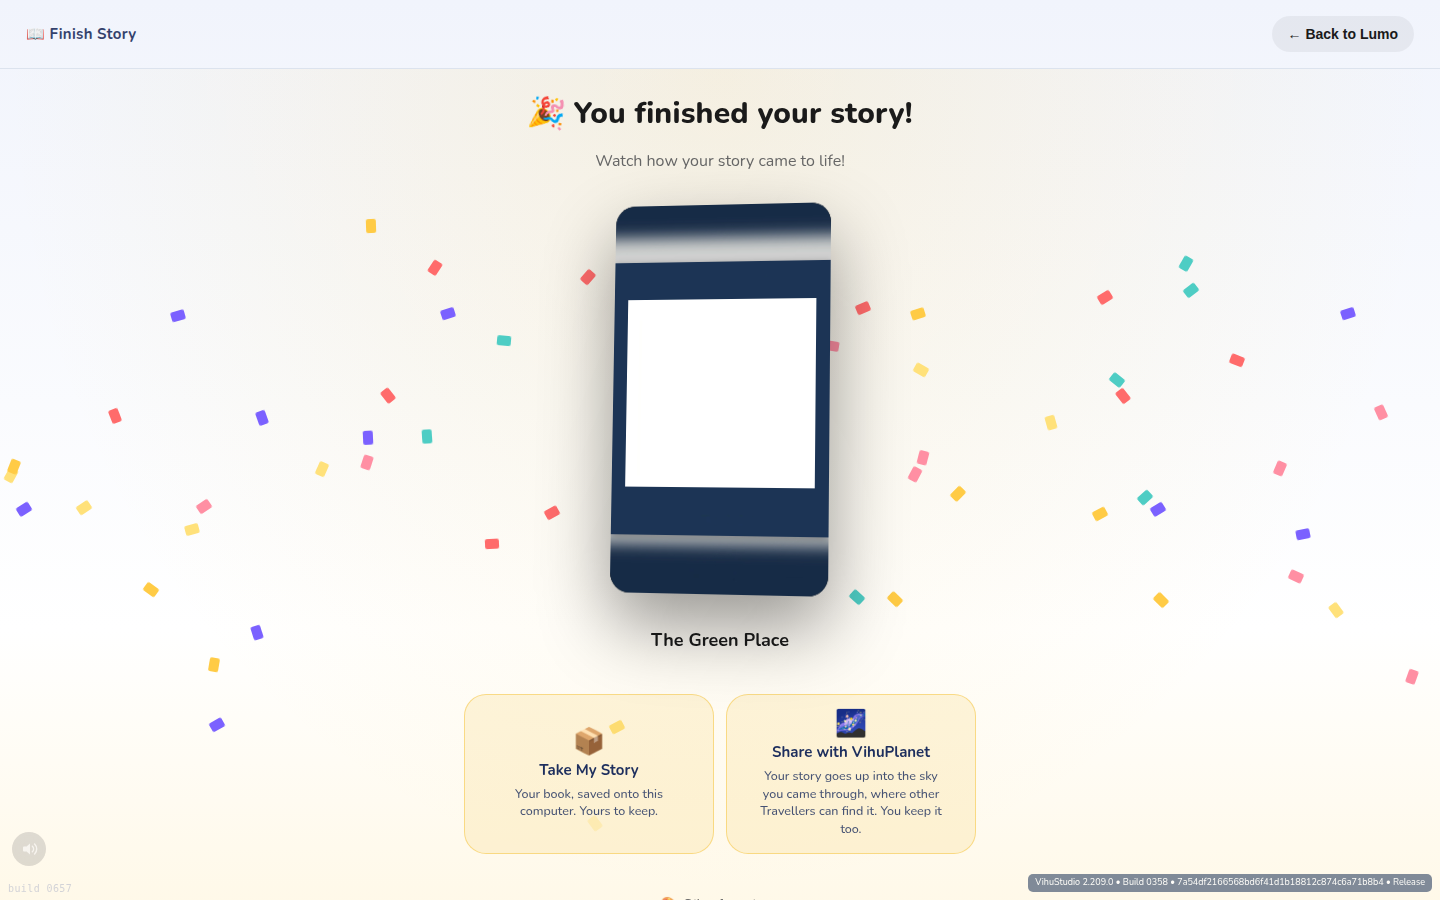
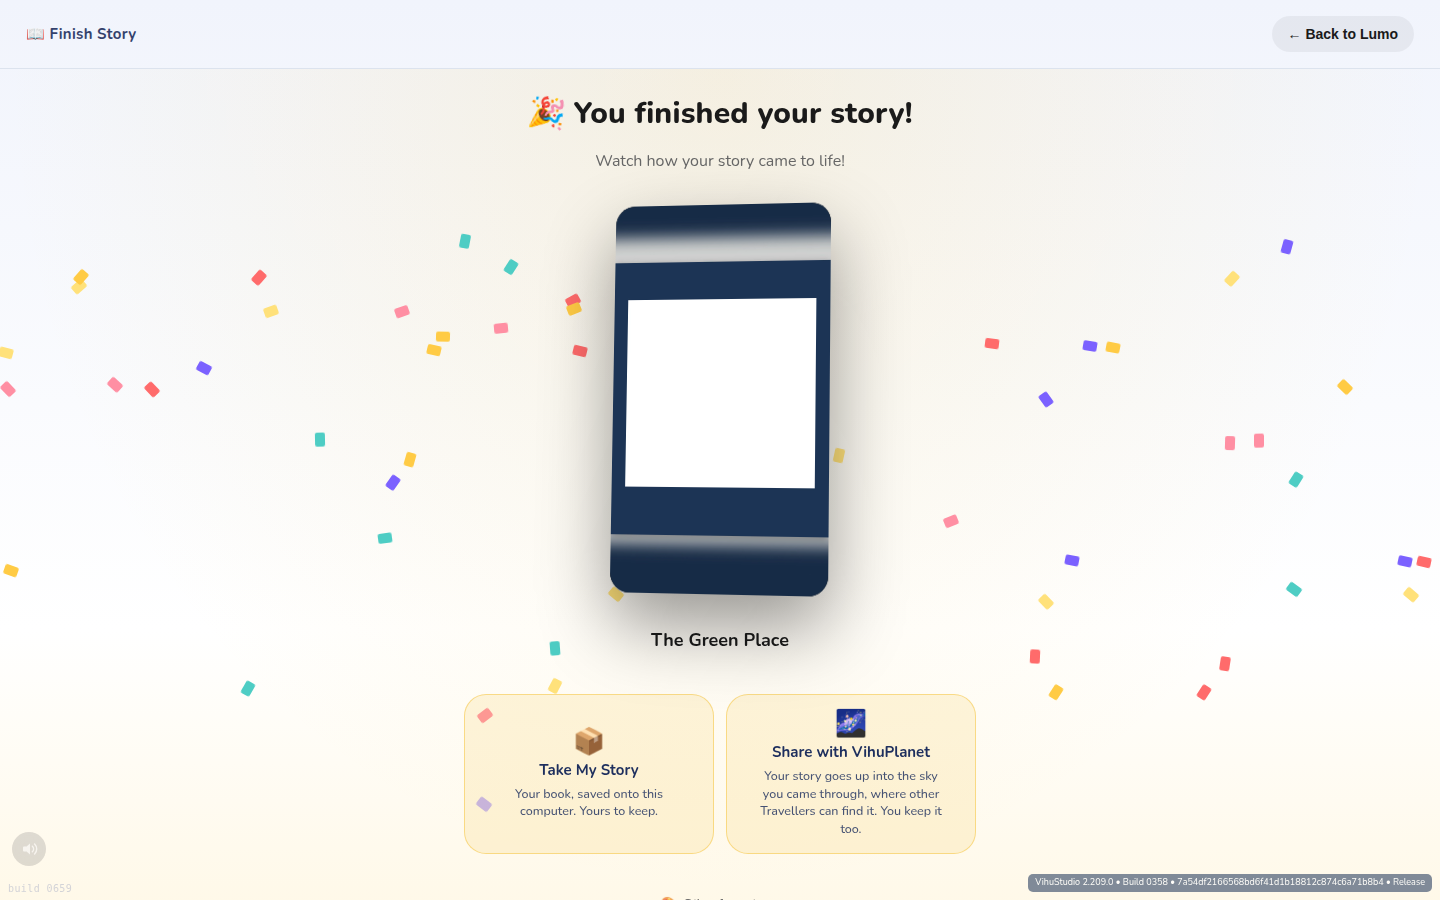
Merge main, ship as 0659, and stop X3 racing the settle
Another session shipped its own build 0658 to main while this work was
in flight — the Companion memory foundation and the Edge auth suite.
Both had stamped 0658, so this one moves to 0659: a version stamp is a
cache buster and two ships cannot share one.

The merge was clean in every source file; the two sprints touched
disjoint code. The only conflicts were regenerated test screenshots,
resolved by taking this branch's and re-running the suites against the
merged tree.

One check then failed, and it was mine rather than the product's: X3
read the naming beat's confirmation the instant its walk broke out,
without waiting for the short stillness the confirmation settles on. It
had been passing by luck; the merge shifted page-load timing enough to
expose it. It polls now, the way T4 next to it already did — three
consecutive failures before, two clean runs after.

Also noted in the sprint entry: gate-test failed once in one full sweep
and passed on all three runs since; the failing check was not captured,
so it is recorded as unexplained rather than fixed.

Rite gate 91/91, gate 25/25, levels 59/59, creation home 84/84,
celebration 31/31, traveller reset 16/16, capability audit 4/4, zero
page errors on the merged tree.

Build 0658 -> 0659.

Claude-Session: https://claude.ai/code/session_014MySJZ7pBSHDXTVZmt5N3y

diff --git a/tools/rite-test/run-rite-gate-tests.js b/tools/rite-test/run-rite-gate-tests.js
@@ -628,7 +628,15 @@ function check(cond, name, note) {
     await xp.waitForTimeout(700);
   }
 
-  const naming = await xBeat();
+  // Polled, not sampled. The confirmation waits on a short stillness
+  // after the beat arrives, so reading it the instant the loop breaks is
+  // a race — one this suite lost the moment an unrelated merge shifted
+  // page-load timing, having passed by luck before.
+  let naming = await xBeat();
+  for (let i = 0; i < 20 && !naming.done; i++) {
+    await xp.waitForTimeout(400);
+    naming = await xBeat();
+  }
   check(/One letter at a time/.test(naming.sub) && /Tell me when it is all there/.test(naming.sub),
     'X1 the naming beat asks for one letter at a time, and for the child to say when',
     naming.sub);
